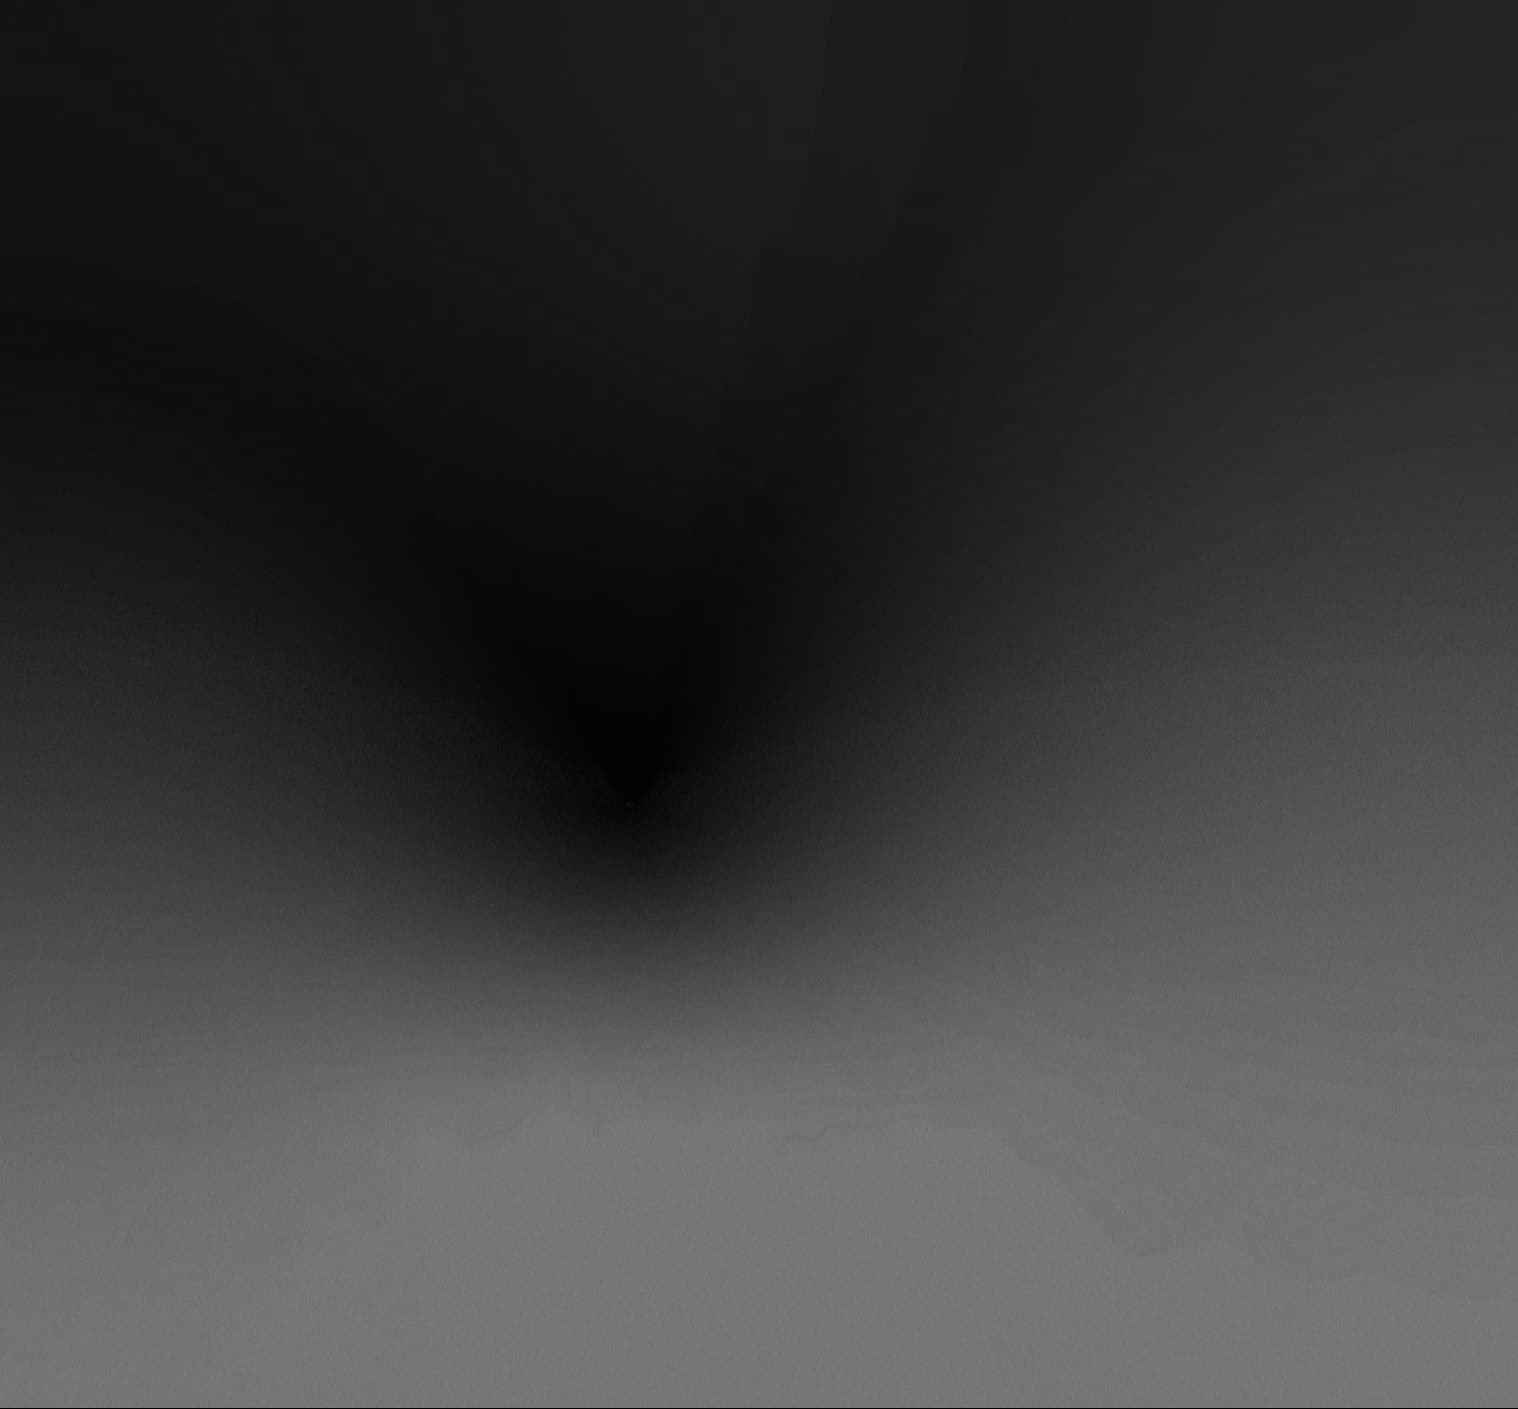
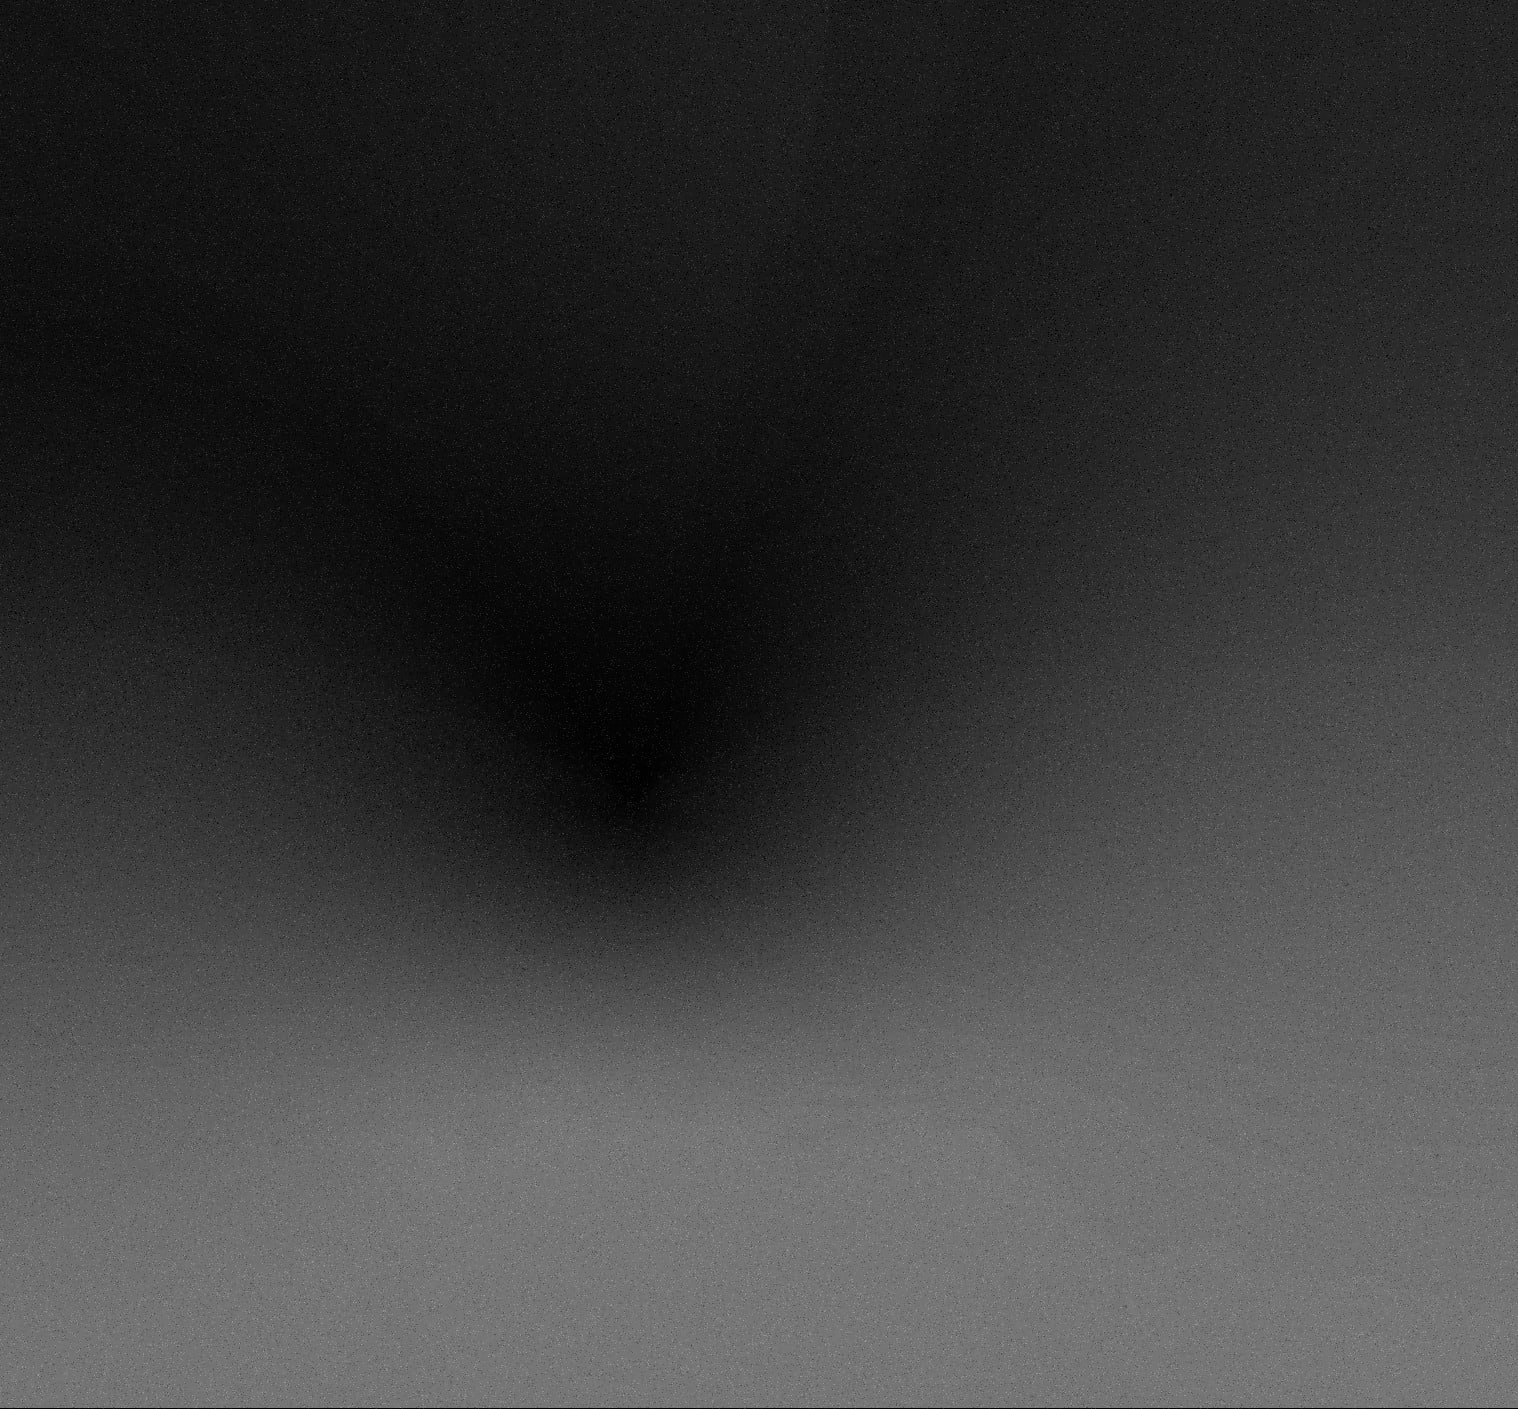
update background, cleanup

diff --git a/content/pages/projects/index.md b/content/pages/projects/index.md
@@ -4,11 +4,11 @@ title: FLP Projects
 colors: colors-a
 backgroundImage:
   type: BackgroundImage
-  url: /images/bg1.jpg
+  url: /images/bg1-test.jpg
   backgroundSize: cover
   backgroundPosition: center
   backgroundRepeat: no-repeat
-  opacity: 50
+  opacity: 60
 projectFeed:
   type: ProjectFeedSection
   colors: colors-f
@@ -30,69 +30,69 @@ styles:
     textAlign: left
 bottomSections:
   - type: ContactSection
-    backgroundSize: full
-    title: "Let’s talk... \U0001F4AC"
-    colors: colors-f
-    form:
-      type: FormBlock
-      elementId: sign-up-form
-      fields:
-        - name: firstName
-          label: First Name
-          hideLabel: true
-          placeholder: First Name
-          isRequired: true
-          width: 1/2
-          type: TextFormControl
-        - name: lastName
-          label: Last Name
-          hideLabel: true
-          placeholder: Last Name
-          isRequired: false
-          width: 1/2
-          type: TextFormControl
-        - name: email
-          label: Email
-          hideLabel: true
-          placeholder: Email
-          isRequired: true
-          width: full
-          type: EmailFormControl
-        - name: message
-          label: Message
-          hideLabel: true
-          placeholder: Tell me about your project
-          isRequired: true
-          width: full
-          type: TextareaFormControl
-        - name: updatesConsent
-          label: Sign me up to recieve my words
-          isRequired: false
-          width: full
-          type: CheckboxFormControl
-      submitLabel: "Submit \U0001F680"
-      styles:
-        submitLabel:
-          textAlign: center
-    styles:
-      self:
-        height: auto
-        width: narrow
-        margin:
-          - mt-0
-          - mb-0
-          - ml-4
-          - mr-4
-        padding:
-          - pt-24
-          - pb-24
-          - pr-4
-          - pl-4
-        alignItems: center
-        justifyContent: center
-        flexDirection: row
-      title:
-        textAlign: left
-      text:
-        textAlign: left
+    # backgroundSize: full
+    # title: "Let’s talk... \U0001F4AC"
+    # colors: colors-f
+    # form:
+    #   type: FormBlock
+    #   elementId: sign-up-form
+    #   fields:
+    #     - name: firstName
+    #       label: First Name
+    #       hideLabel: true
+    #       placeholder: First Name
+    #       isRequired: true
+    #       width: 1/2
+    #       type: TextFormControl
+    #     - name: lastName
+    #       label: Last Name
+    #       hideLabel: true
+    #       placeholder: Last Name
+    #       isRequired: false
+    #       width: 1/2
+    #       type: TextFormControl
+    #     - name: email
+    #       label: Email
+    #       hideLabel: true
+    #       placeholder: Email
+    #       isRequired: true
+    #       width: full
+    #       type: EmailFormControl
+    #     - name: message
+    #       label: Message
+    #       hideLabel: true
+    #       placeholder: Tell me about your project
+    #       isRequired: true
+    #       width: full
+    #       type: TextareaFormControl
+    #     - name: updatesConsent
+    #       label: Sign me up to recieve my words
+    #       isRequired: false
+    #       width: full
+    #       type: CheckboxFormControl
+    #   submitLabel: "Submit \U0001F680"
+    #   styles:
+    #     submitLabel:
+    #       textAlign: center
+    # styles:
+    #   self:
+    #     height: auto
+    #     width: narrow
+    #     margin:
+    #       - mt-0
+    #       - mb-0
+    #       - ml-4
+    #       - mr-4
+    #     padding:
+    #       - pt-24
+    #       - pb-24
+    #       - pr-4
+    #       - pl-4
+    #     alignItems: center
+    #     justifyContent: center
+    #     flexDirection: row
+    #   title:
+    #     textAlign: left
+    #   text:
+    #     textAlign: left
 ---

diff --git a/content/pages/projects/please-stay.md b/content/pages/projects/please-stay.md
@@ -14,6 +14,13 @@ media:
   type: VideoBlock
   url: https://www.youtube.com/watch?v=MHjX_A7W4XU&t=92s
   altText: Project image
+backgroundImage:
+  type: BackgroundImage
+  url: /images/bg1-test.jpg
+  backgroundSize: cover
+  backgroundPosition: center
+  backgroundRepeat: no-repeat
+  opacity: 60
 ---
 
 Price: $15

diff --git a/content/pages/projects/in-control.md b/content/pages/projects/in-control.md
@@ -14,6 +14,13 @@ media:
   type: VideoBlock
   url: https://www.youtube.com/watch?v=MR1mn9ekG0k&t=1s
   altText: Project image
+backgroundImage:
+  type: BackgroundImage
+  url: /images/bg1-test.jpg
+  backgroundSize: cover
+  backgroundPosition: center
+  backgroundRepeat: no-repeat
+  opacity: 60
 ---
 
 Price: $15

diff --git a/content/pages/projects/hiding.md b/content/pages/projects/hiding.md
@@ -14,6 +14,13 @@ media:
   type: VideoBlock
   url: https://www.youtube.com/watch?v=L8OYQxbOZBE
   altText: Project image
+backgroundImage:
+  type: BackgroundImage
+  url: /images/bg1-test.jpg
+  backgroundSize: cover
+  backgroundPosition: center
+  backgroundRepeat: no-repeat
+  opacity: 60
 ---
 
 Price: $10

diff --git a/content/pages/projects/love-me-too.md b/content/pages/projects/love-me-too.md
@@ -14,6 +14,13 @@ media:
   type: VideoBlock
   url: https://www.youtube.com/watch?v=1rrD3kukAOs
   altText: Project image
+backgroundImage:
+  type: BackgroundImage
+  url: /images/bg1-test.jpg
+  backgroundSize: cover
+  backgroundPosition: center
+  backgroundRepeat: no-repeat
+  opacity: 60
 ---
 
 Price: $15

diff --git a/content/pages/projects/save-me.md b/content/pages/projects/save-me.md
@@ -14,6 +14,13 @@ media:
   type: VideoBlock
   url: https://www.youtube.com/watch?v=B1S6vyaPc_Q
   altText: Project image
+backgroundImage:
+  type: BackgroundImage
+  url: /images/bg1-test.jpg
+  backgroundSize: cover
+  backgroundPosition: center
+  backgroundRepeat: no-repeat
+  opacity: 60
 ---
 
 Price: $15

diff --git a/content/pages/projects/thinking-of-you.md b/content/pages/projects/thinking-of-you.md
@@ -14,6 +14,13 @@ media:
   type: VideoBlock
   url: https://www.youtube.com/watch?v=guMLploJiK8
   altText: Project image
+backgroundImage:
+  type: BackgroundImage
+  url: /images/bg1-test.jpg
+  backgroundSize: cover
+  backgroundPosition: center
+  backgroundRepeat: no-repeat
+  opacity: 60
 ---
 
 Price: $15

diff --git a/content/pages/index.md b/content/pages/index.md
@@ -8,7 +8,7 @@ backgroundImage:
   backgroundSize: cover
   backgroundPosition: center
   backgroundRepeat: no-repeat
-  opacity: 75
+  opacity: 60
 sections:
   - elementId: ''
     colors: colors-f
